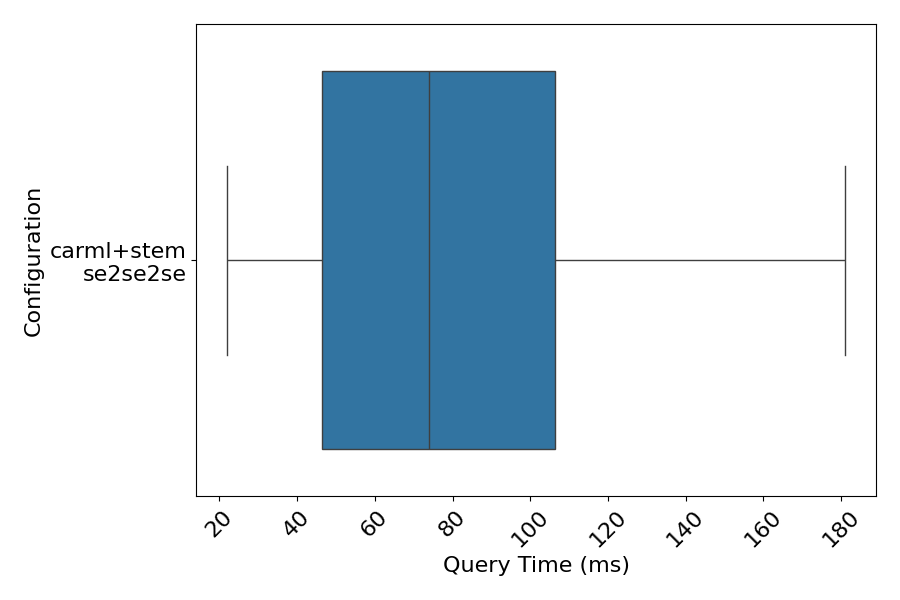
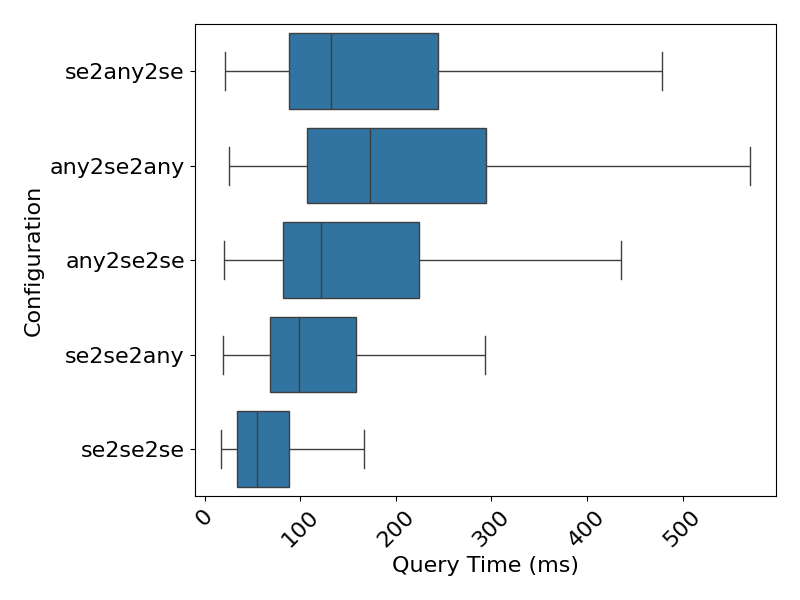
New measurement plots

diff --git a/measurements/plot.py b/measurements/plot.py
@@ -41,7 +41,7 @@ def plot_one(dframe):
     plt.ylabel('Configuration')
     plt.tight_layout()
     #plt.savefig('../latex/img/p1.pdf')
-    #plt.savefig('p1.png')
+    plt.savefig('p1.png')
     plt.show()
 
 
@@ -54,7 +54,7 @@ def plot_two(dframe):
     plt.ylabel('Configuration')
     plt.tight_layout()
     #plt.savefig('../latex/img/p2.pdf')
-    #plt.savefig('p2.png')
+    plt.savefig('p2.png')
     plt.show()
 
 
@@ -67,7 +67,7 @@ def plot_three(dframe):
     plt.ylabel('Configuration')
     plt.tight_layout()
     #plt.savefig('../latex/img/p3.pdf')
-    #plt.savefig('p3.png')
+    plt.savefig('p3.png')
     plt.show()
 
 def plot_four(dframe):
@@ -80,7 +80,7 @@ def plot_four(dframe):
     plt.ylabel('Configuration')
     plt.tight_layout()
     #plt.savefig('../latex/img/p4.pdf')
-    #plt.savefig('p4.png')
+    plt.savefig('p4.png')
     plt.show()
 
 